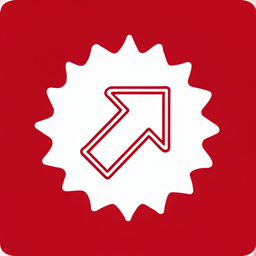
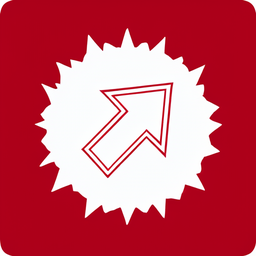
feat(dice): block dice pixel-faithful to official GW (take3 + burst star)
- Facce 1-5: take3 (prompt badge SPIKY ANGOLARE, spike corti affilati) —
  il badge ora replica l'esplosione ufficiale (prima era scalloped).
- Faccia 6: stella BURST irregolare a ~12 punte sottili disugne (crepa/
  fulmine) — sostituisce la stella compasso a 8 punte.
- Test img2img (r13_img2img.py): mostrare il photo reale NON aiuta col
  modello turbo (a denoise utile trapela il 3D/foto; a 0.95 = text2image).
- Asset 256 + 44px aggiornati; leggibili nell'action log. 3/3 suite verdi.

diff --git a/tools/mockup/r13_img2img.py b/tools/mockup/r13_img2img.py
@@ -1,0 +1,114 @@
+#!/usr/bin/env python3
+"""Round 13 — Qwen-Image 2.1 Turbo IMG2IMG for the block dice.
+
+Shows the model the REAL die face photo (reference in ComfyUI input/) and
+steers it to a flat, top-down, crimson-red vector die face with the SAME
+white spiky badge + symbol design. This should be more faithful to the
+official GW dice than pure text2image (the exact spike pattern and symbol
+come from the reference).
+
+Usage:
+    python3 r13_img2img.py <ref_png> <out_prefix> [denoise] [seed] [symbol]
+    python3 r13_img2img.py --test      # one ref at a few denoise levels
+
+The reference PNG must already be copied into
+/home/saruman/ComfyUI-Shared/input/
+"""
+import json
+import sys
+import urllib.request
+import urllib.error
+
+API = "http://127.0.0.1:8188"
+
+DIE_RED = ("a solid flat crimson red (around #B02020), completely uniform, "
+           "no gradient, no bevel, no 3D perspective, no texture noise, no shadow")
+
+def base_style(die, symbol):
+    return (
+        "A single square game die face, perfectly flat top-down view, the die "
+        "face filling the ENTIRE frame edge to edge as a perfect square with "
+        "slightly rounded corners. The die background is {die}. Flat clean 2D "
+        "vector game-art style, crisp uniform edges, high contrast. "
+        "In the exact center of the die face: a WHITE badge, a circular disc "
+        "about 72% of the face width, whose edge is a SPIKY BURST: 11 to 12 "
+        "SHORT, POINTED, ANGULAR triangular spikes of VARYING length (some "
+        "clearly longer, some shorter, uneven) radiating outward, each spike "
+        "a sharp triangle with a slightly soft tip but clearly ANGULAR and "
+        "POINTED, like a comic-book explosion star or a torn-paper burst; the "
+        "edge must be SPIKY and angular, NOT a smooth scalloped/flower edge, "
+        "NOT a wavy border, NOT rounded bumps. The interior of the badge is "
+        "solid clean white. "
+        "Inside the badge, perfectly centered, LARGE (about 75% of the badge), "
+        "in solid crimson red (the die color): {sym}. "
+        "Nothing else: no text, no numbers, no letters, no watermark, no "
+        "border frame, no second badge, no background objects, no other dice."
+    ).format(die=die, sym=symbol)
+
+
+def build_img2img(ref_name, pos, denoise, seed, prefix):
+    return {
+        "1": {"class_type": "UNETLoader",
+              "inputs": {"unet_name": "qwen_image_2.1_turbo_int8_convrot.safetensors",
+                         "weight_dtype": "default"}},
+        "2": {"class_type": "CLIPLoader",
+              "inputs": {"clip_name": "qwen3vl_8b_int8_convrot.safetensors",
+                         "type": "qwen_image", "device": "default"}},
+        "3": {"class_type": "VAELoader",
+              "inputs": {"vae_name": "qwen_image_2.1_vae_bf16.safetensors"}},
+        "10": {"class_type": "LoadImage",
+               "inputs": {"image": ref_name}},
+        "11": {"class_type": "VAEEncode",
+                "inputs": {"pixels": ["10", 0], "vae": ["3", 0]}},
+        "4": {"class_type": "CLIPTextEncode",
+              "inputs": {"text": pos, "clip": ["2", 0]}},
+        "5": {"class_type": "CLIPTextEncode",
+              "inputs": {"text": "", "clip": ["2", 0]}},
+        "7": {"class_type": "KSampler",
+              "inputs": {"model": ["1", 0], "positive": ["4", 0],
+                         "negative": ["5", 0], "latent_image": ["11", 0],
+                         "seed": seed, "steps": 8, "cfg": 1.0,
+                         "sampler_name": "euler", "scheduler": "simple",
+                         "denoise": denoise}},
+        "8": {"class_type": "VAEDecode",
+              "inputs": {"samples": ["7", 0], "vae": ["3", 0]}},
+        "9": {"class_type": "SaveImage",
+              "inputs": {"images": ["8", 0], "filename_prefix": prefix}},
+    }
+
+
+def queue(wf):
+    req = urllib.request.Request(
+        API + "/prompt", data=json.dumps({"prompt": wf}).encode(),
+        headers={"Content-Type": "application/json"})
+    with urllib.request.urlopen(req, timeout=30) as r:
+        d = json.load(r)
+    if d.get("node_errors"):
+        raise RuntimeError(f"node errors: {d['node_errors']}")
+    print(f"queued -> {d['prompt_id']}", flush=True)
+    return d["prompt_id"]
+
+
+if __name__ == "__main__":
+    if len(sys.argv) >= 2 and sys.argv[1] == "--test":
+        # one reference, a few denoise levels to find the sweet spot
+        ref = "ref1_skull.png"
+        sym = ("a bold filled skull in a clean fantasy game-logo style: a "
+               "rounded domed cranium, two large slanted angular angry eye "
+               "sockets, a small inverted-triangle nasal cavity, and a lower "
+               "jaw with four square teeth; the eye sockets, nose and tooth "
+               "gaps are white cutouts, the skull solid flat red")
+        for dn in (0.70, 0.85, 0.95):
+            pos = base_style(DIE_RED, sym)
+            queue(build_img2img(ref, pos, dn, 42, f"r13/i2i_test_{int(dn*100)}"))
+            print(f"  {ref} denoise={dn}", flush=True)
+        sys.exit(0)
+
+    if len(sys.argv) < 4:
+        print(__doc__)
+        sys.exit(1)
+    ref, prefix, denoise = sys.argv[1], sys.argv[2], float(sys.argv[3])
+    seed = int(sys.argv[4]) if len(sys.argv) > 4 else 7
+    sym = sys.argv[5] if len(sys.argv) > 5 else ""
+    pos = base_style(DIE_RED, sym)
+    queue(build_img2img(ref, pos, denoise, seed, prefix))

diff --git a/tools/mockup/r13_queue.py b/tools/mockup/r13_queue.py
@@ -48,12 +48,15 @@ BLOCK_STYLE = (
     "face filling the ENTIRE frame edge to edge as a perfect square with "
     "slightly rounded corners. The die background is {die}. Flat clean 2D "
     "vector game-art style, crisp uniform edges, high contrast. "
-    "In the exact center of the die face: a WHITE badge, a spiky circular "
-    "disc about 72% of the face width. The badge rim has 11 to 12 SHORT, "
-    "ROUNDED, organic spikes with ROUNDED TIPS and VARYING length (some "
-    "longer, some shorter, uneven, like a torn paper crown or a soft "
-    "rounded sunburst) — NOT long sharp thin triangles, NOT a spiky star. "
-    "The interior of the badge is solid clean white. "
+    "In the exact center of the die face: a WHITE badge, a circular disc "
+    "about 72% of the face width, whose edge is a SPIKY BURST: 11 to 12 "
+    "SHORT, POINTED, ANGULAR triangular spikes of VARYING length (some "
+    "clearly longer, some shorter, uneven) radiating outward — each spike "
+    "is a sharp triangle with a slightly soft tip but clearly ANGULAR and "
+    "POINTED, like a comic-book explosion star or a torn-paper burst. The "
+    "edge must be SPIKY and angular, NOT a smooth scalloped/flower edge, "
+    "NOT a wavy border, NOT rounded bumps. The interior of the badge is "
+    "solid clean white. "
     "Inside the badge, perfectly centered, LARGE (filling about 75% of "
     "the badge), in solid crimson red (the die color): {symbol}. "
     "Nothing else: no text, no numbers, no letters, no watermark, no "
@@ -87,14 +90,15 @@ BLOCK_SYMBOLS = {
         "vertical bar with a separated square dot below it) surrounded by "
         "a spiky starburst ring of red spikes radiating outward that "
         "nearly reaches the badge rim, the spikes uneven in length"),
-    6: ("a SOLID 12-POINTED star in solid flat red, perfectly centered, "
-        "each of the 12 points a thin elongated DIAMOND shape (like a "
-        "compass star or a comic-book explosion burst), the whole star "
-        "SOLID flat red with sharp clean points and no hollow center, "
-        "filling about 80% of the badge"),
+    6: ("a SOLID star in solid flat red, perfectly centered, with EXACTLY "
+        "TWELVE (12) sharp points — count them, there must be 12 — each "
+        "point a thin elongated DIAMOND (like a compass star or a "
+        "comic-book explosion burst), the whole star SOLID flat red with "
+        "sharp clean points and no hollow center, filling about 80% of "
+        "the badge"),
 }
 
-DICE_SEEDS = {1: 9101, 2: 9102, 3: 9103, 4: 9104, 5: 9105, 6: 9106}
+DICE_SEEDS = {1: 9201, 2: 9202, 3: 9203, 4: 9204, 5: 9205, 6: 9206}
 
 FIELD_GRASS_POS = (
     "Spectacular AAA fantasy sports video game field texture, perfectly "
